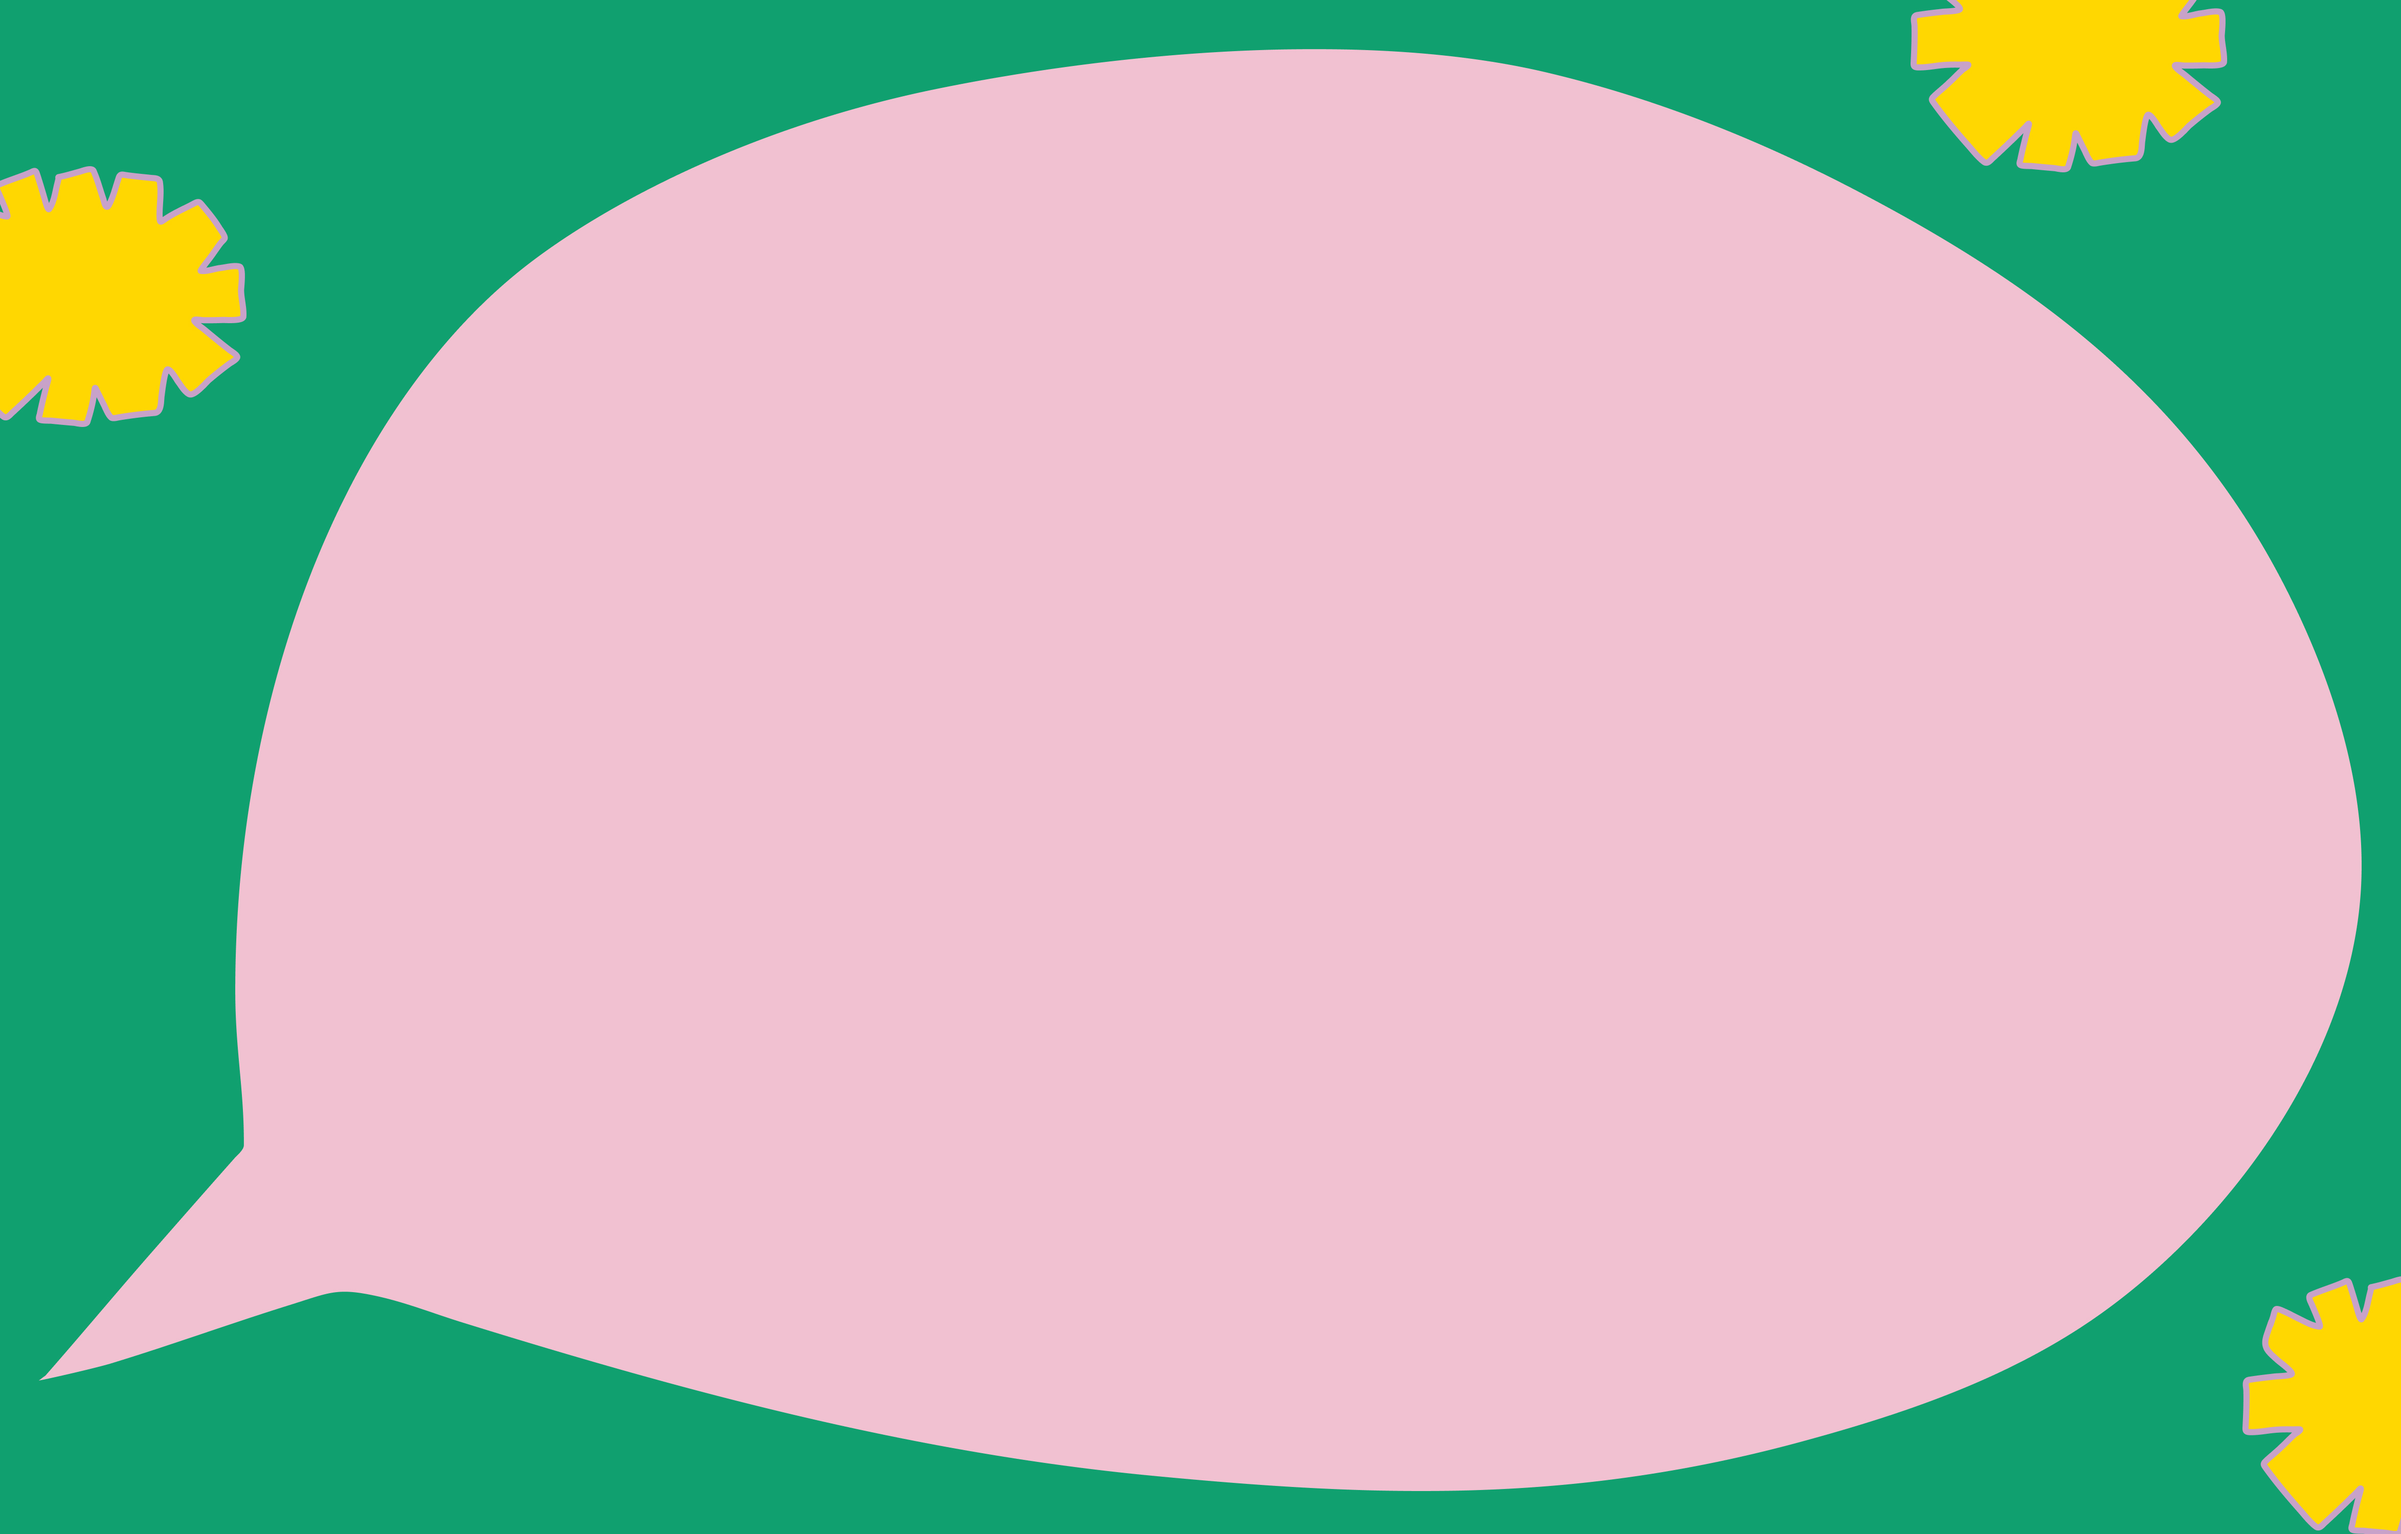
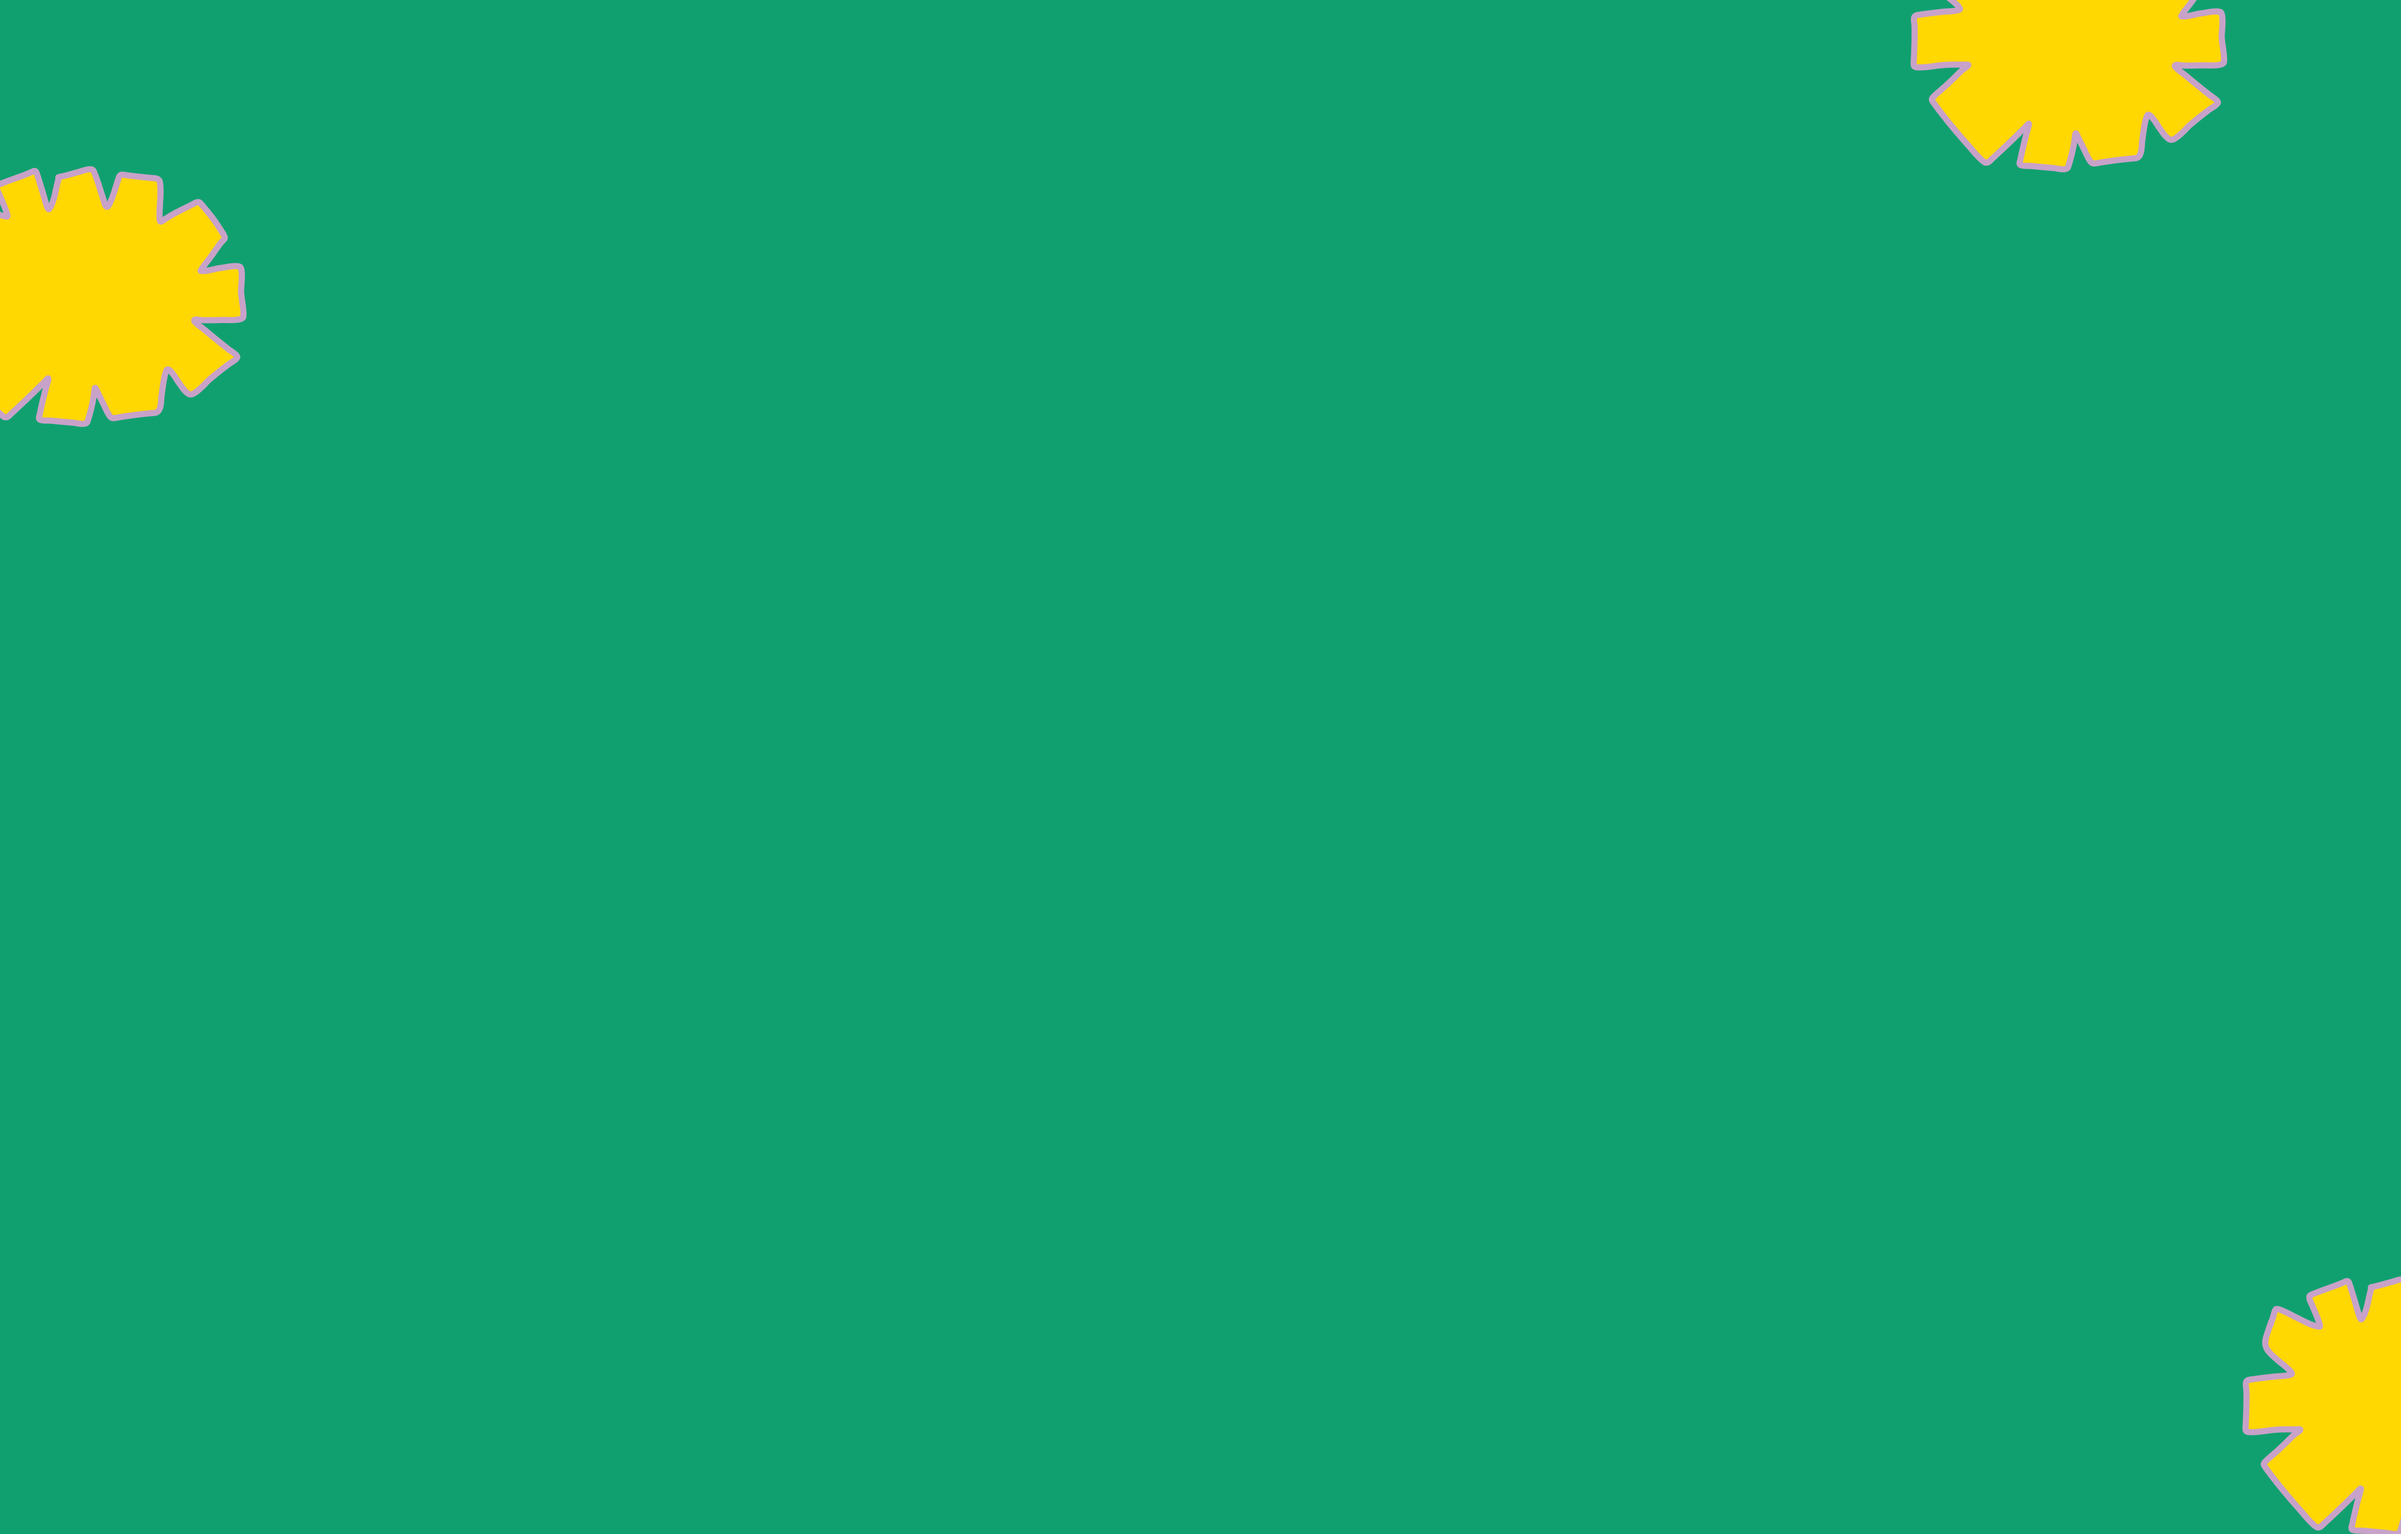
style: 디자인 4차

diff --git a/frontend/src/pages/Home/index.tsx b/frontend/src/pages/Home/index.tsx
@@ -4,7 +4,6 @@ import axios from 'axios';
 import { useNavigate } from 'react-router-dom';
 import UserList from '../../components/ui/Userlist';
 import Background from '../../components/ui/Background';
-import SmallBox from '../../components/ui/SmallBox';
 import Profile from '../../components/ui/Profile';
 import HeaderLogo from '../../components/ui/HeaderLogo';
 
@@ -107,44 +106,14 @@ export default function Home() {
       <div>
         <HeaderLogo />
       </div>
-      <SmallBox>
-        <button
-          className="
-      absolute 
-      inset-0  
-      bg-white 
-      rounded-[50px] 
-      shadow-md 
-      
-      cursor-pointer 
-      transition-transform 
-      origin-center 
-      hover:scale-105 
-      hover:shadow-lg
-      p-16
-      
-    "
+      <div className="absolute top-1/2 left-1/2 transform -translate-x-2/3 -translate-y-1/2">
+        <img
+          src="/images/GameStart3.png"
+          alt="Game Start"
           onClick={() => navigate('/games')}
-          
-        >
-          <div className="game-select-header transform scale-90" style={{ marginTop: '-20px' }}>
-            <LanguageToggle
-              language={language}
-              onToggle={handleToggleLanguage}
-            />
-            <h1 className="game-select-title ">동화 선택</h1>
-          </div>
-          <div className="container transform scale-95">
-            {stories.map((story) => (
-              <div key={story.id} className="card">
-                <img src={story.imageUrl} alt={story.name[language]} />
-                <p className="card-title">{story.name[language]}</p>
-              </div>
-            ))}
-          </div>
-        </button>
-      </SmallBox>
-
+          style={{ width: '200px', height: 'auto', cursor: 'pointer' }}
+        />
+      </div>
       {/* Profile Box */}
       <Link to="/MyPage">
         <Profile />
@@ -175,12 +144,10 @@ export default function Home() {
         ))}
       </div>
       {/* 로그아웃 버튼 */}
-      <button
-        className="logout-button transition-all duration-200 ease-in-out transform hover:scale-110 "
-        onClick={handleLogout}
-      >
-        <span className="logout-text">&nbsp;LOG OUT</span>
-      </button>
+      <button className="logout-button" onClick={handleLogout}>
+        <img src="/images/logoutBtn.png" alt="로그아웃 버튼" />
+        <span className="logout-text">&nbsp;로그아웃</span>
+        </button>
     </div>
   );
 }

diff --git a/frontend/src/components/ui/CommonUi.css b/frontend/src/components/ui/CommonUi.css
@@ -40,10 +40,11 @@ body {
 
 .big-main-box {
   position: absolute; /* 배치 */
-  bottom: 10%;
-  left: 8%;
-  width: 1200px;
-  height: 570px;
+  top: 50%;
+  left: 50%;
+  transform: translate(-50%, -50%);
+  width: 1300px;
+  height: 620px;
   background-color: white; /* 배경색 */
   border-radius: 50px; /* 둥근 모서리 */
   box-shadow: 0px 4px 6px rgba(0, 0, 0, 0.1); /* 그림자 */
@@ -80,11 +81,11 @@ body {
 .profile-box {
   position: absolute;
   top: 11%;
-  left: 81%;
+  left: 80%;
   background-color: white;
   padding: 10px;
-  width: 143px;
-  height: 39px;
+  width: 173px;
+  height: 89px;
   border: 4px solid #c8a2c8;
   box-shadow: 0px 4px 6px rgba(0, 0, 0, 0.1); /* 그림자 효과 */
   border-radius: 19px;
@@ -129,12 +130,12 @@ body {
 /* User List Box */
 .user-list-box {
   position: absolute;
-  top: 18%;
+  top: 25%;
   left: 80%;
   background-color: white;
   padding: 16px;
   width: 173px;
-  height: 168px;
+  height: 172px;
   box-shadow: 0px 4px 6px rgba(0, 0, 0, 0.1);
   border-radius: 20px;
 }
@@ -163,16 +164,16 @@ body {
 /* Logout Button Styles */
 .logout-button {
   position: absolute; /* 배치 */
-  bottom: 180px;
-  left: 30px;
+  bottom: 60px;
+  right: 164px;
   width: 100px;
   height: 40px;
-  border: 4px solid #c8a2c8;
-  box-shadow: 0px 4px 6px rgba(0, 0, 0, 0.1);
-  border-radius: 19px;
+  
+  
+  
   text-align: center;
   padding: 0; /* 이미지에 불필요한 여백 제거 */
-  background-color: white;
+  
   display: inline-flex; /* 버튼 안에 이미지와 텍스트를 넣기 위한 flexbox */
   justify-content: center; /* 텍스트 수평 중앙 정렬 */
   align-items: center; /* 텍스트 수직 중앙 정렬 */
@@ -184,7 +185,7 @@ body {
 .logout-button .logout-text {
   position: absolute; /* 텍스트를 이미지 위에 겹치게 배치 */
   color: black;
-  font-size: 15px;
-  font-weight: semibold;
+  font-size: 10px;
+  font-weight: bold;
   z-index: 1; /* 텍스트가 이미지 위로 오도록 설정 */
 }

diff --git a/frontend/src/pages/Start/index.tsx b/frontend/src/pages/Start/index.tsx
@@ -3,7 +3,6 @@ import { GoogleLogin } from '@react-oauth/google';
 import UserList from '../../components/ui/Userlist';
 import useGoogleAuthMutation from '../../hooks/auth/useGoogleAuthMutation';
 
-import Background from '../../components/ui/Background';
 
 /*
 To do:
@@ -37,8 +36,16 @@ export default function Start() {
   };
 
   return (
-    <div>
-      <Background />
+    <div
+    className="full-page-bg"
+    style={{
+      backgroundImage: "url('/images/bg_withpink.jpg')",
+      backgroundSize: 'cover',
+      backgroundPosition: 'left 70%',
+      backgroundRepeat: "no-repeat",
+      zIndex: -1, 
+    }}
+  >
       {/* 실시간 사용자 목록 박스 */}
       <div>
         <UserList users={users} />

diff --git a/frontend/src/pages/Game/GameSelect.tsx b/frontend/src/pages/Game/GameSelect.tsx
@@ -68,10 +68,9 @@ const GameSelect = () => {
       <Background />
       <div><HeaderLogo/></div>
       <BigBox>
-    <div className="game-select-container" style={{ marginTop: '-30px' }}>
+    <div className="game-select-container" style={{ marginTop: '0px' }}>
       <div className="game-select-header">
-        <LanguageToggle language={language} onToggle={handleToggleLanguage} />
-        <h1 className="game-select-title">동화 선택</h1>
+        
         
       </div>
       <div className="container">

diff --git a/frontend/src/components/ui/HomeBtnforBigbox.tsx b/frontend/src/components/ui/HomeBtnforBigbox.tsx
@@ -6,7 +6,7 @@ export default function HomeBtn() {
   return (
     <button
     onClick={() => navigate('/home')}
-    className="absolute bottom-[30px] right-[115px] w-[100px] h-[200px] p-4 focus:outline-none transition-all duration-200 ease-in-out transform hover:scale-110"
+    className="absolute bottom-[30px] right-[10px] w-[100px] h-[200px] p-4 focus:outline-none transition-all duration-200 ease-in-out transform hover:scale-110"
     title="홈으로 이동"
     aria-label="홈으로 이동"
   >

diff --git a/frontend/src/components/ui/HeaderLogo.tsx b/frontend/src/components/ui/HeaderLogo.tsx
@@ -3,7 +3,7 @@ import React from 'react'
 export default function HeaderLogo() {
   return (
     <div
-    className="absolute z-50 top-[-15px] right-[360px] w-[160px]  p-7"
+    className="absolute z-50 top-[-20px] left-[10px] w-[220px]  p-7"
     title="상단로고"
     aria-label="상단로고"
     
